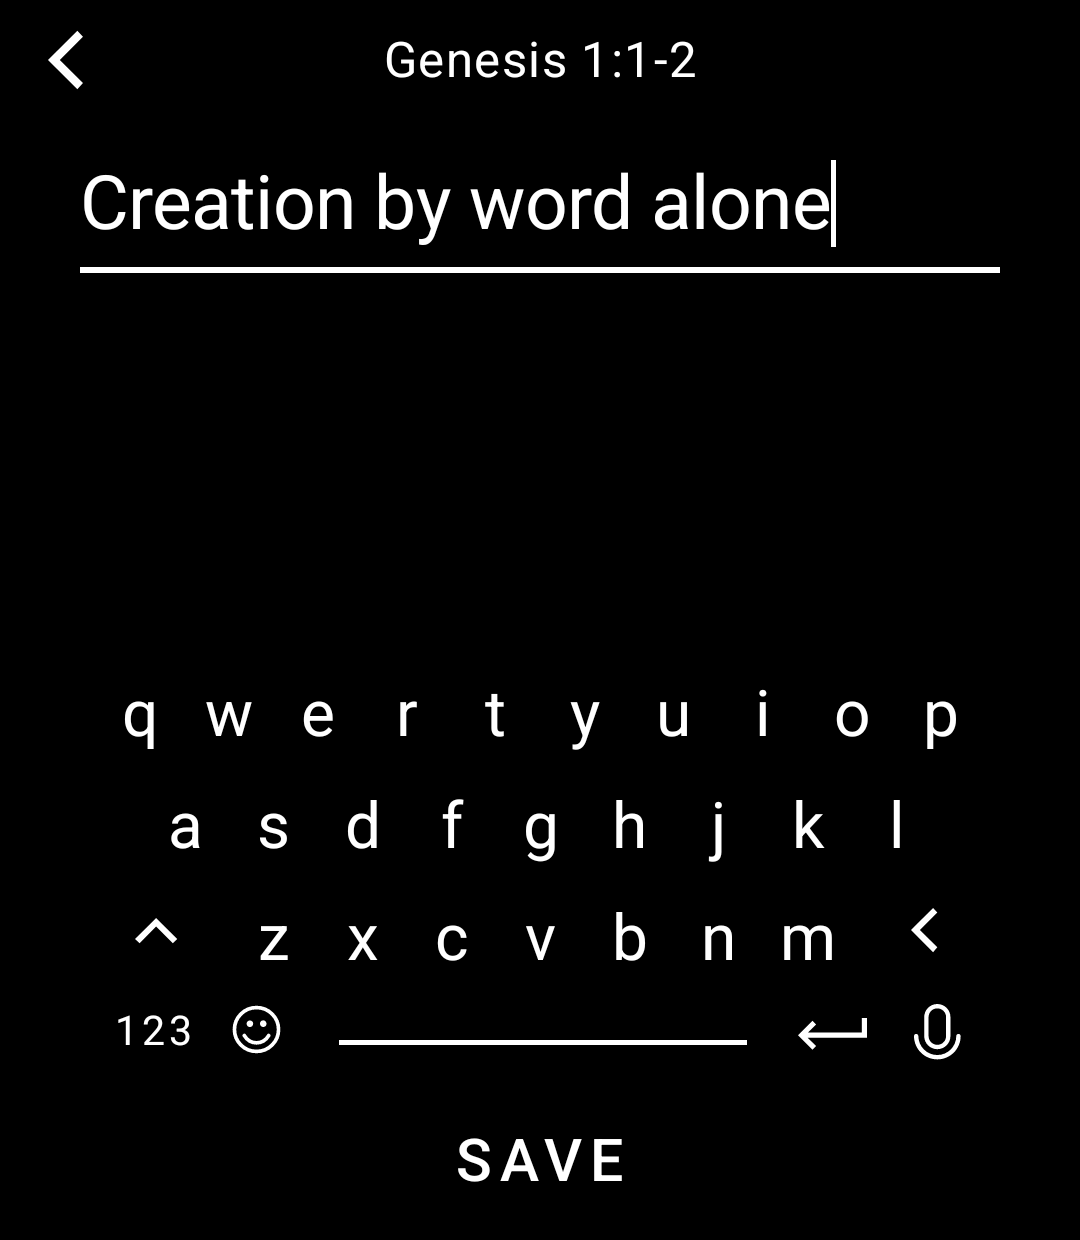
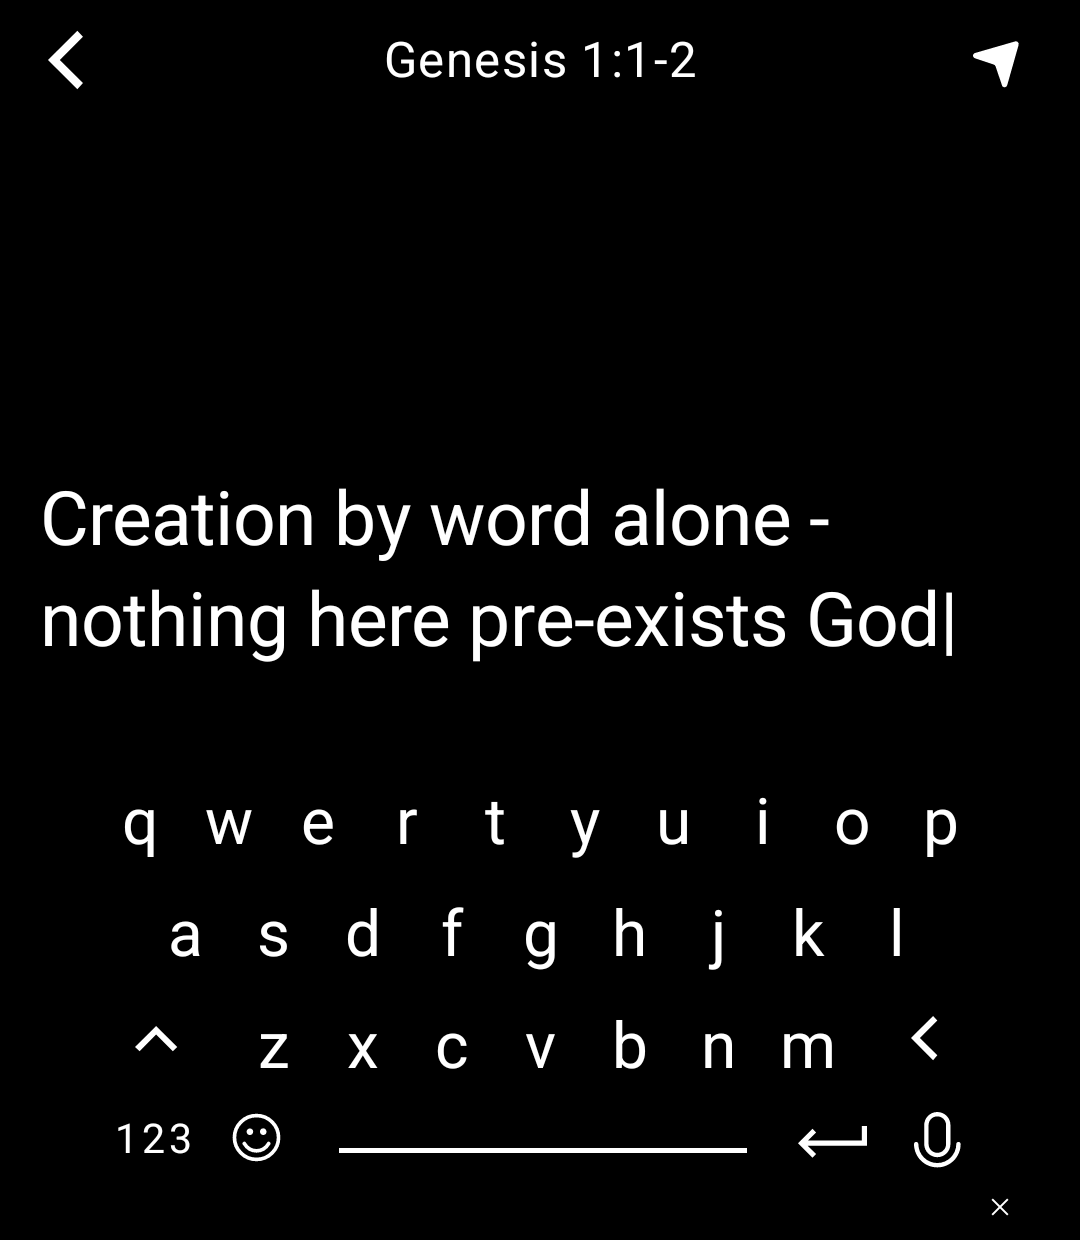
Write notes on a screen shaped like the messaging screen
The note editor was a single line, which is a poor place to write a sentence
about a passage. It is now laid out like the LightOS messaging screen, the
same way the GroupMe tool composes a message: the draft grows upward from
just above the keys, send confirms, and the close control sits under the
keyboard.

Settings takes API keys through this same screen, and a long key is easier to
check when it wraps instead of scrolling off one line.

The keyboard callback is copied rather than shared - the SDK keeps its own
implementation internal, so a tool cannot reach it.

LP2 has no LightOS keyboard to match, so its field gets a writing area
instead of collapsing to a single line's height.

diff --git a/tool/src/main/kotlin/com/outofthewhale/wordoflight/NoteEditScreen.kt b/tool/src/main/kotlin/com/outofthewhale/wordoflight/NoteEditScreen.kt
@@ -1,24 +1,64 @@
 package com.outofthewhale.wordoflight
 
 import androidx.compose.foundation.background
+import androidx.compose.foundation.layout.Arrangement
+import androidx.compose.foundation.layout.Box
+import androidx.compose.foundation.layout.Column
+import androidx.compose.foundation.layout.Row
+import androidx.compose.foundation.layout.fillMaxSize
+import androidx.compose.foundation.layout.fillMaxWidth
+import androidx.compose.foundation.layout.padding
+import androidx.compose.foundation.text.input.TextFieldState
+import androidx.compose.foundation.text.input.delete
 import androidx.compose.foundation.text.input.rememberTextFieldState
 import androidx.compose.runtime.Composable
 import androidx.compose.runtime.collectAsState
 import androidx.compose.runtime.getValue
+import androidx.compose.runtime.remember
+import androidx.compose.ui.Alignment
 import androidx.compose.ui.Modifier
+import androidx.compose.ui.text.TextRange
+import androidx.lifecycle.ViewModel
+import androidx.lifecycle.ViewModelProvider
+import androidx.lifecycle.viewmodel.compose.viewModel
+import com.thelightphone.lp3Keyboard.ui.KeyboardOptions
+import com.thelightphone.lp3Keyboard.ui.LayoutOptions
+import com.thelightphone.lp3Keyboard.ui.SpecialKey
+import com.thelightphone.lp3Keyboard.ui.viewmodel.EnQwertyLp3KeyboardViewModel
+import com.thelightphone.lp3Keyboard.ui.viewmodel.Lp3KeyboardViewModel
+import com.thelightphone.lp3Keyboard.ui.viewmodel.Lp3RepeatableKeyboardCallback
 import com.thelightphone.sdk.SealedLightActivity
 import com.thelightphone.sdk.SimpleLightScreen
 import com.thelightphone.sdk.rememberKeyboardOptions
-import com.thelightphone.sdk.ui.LightTextInputEditor
+import com.thelightphone.sdk.ui.LightBarButton
+import com.thelightphone.sdk.ui.LightIcon
+import com.thelightphone.sdk.ui.LightIcons
+import com.thelightphone.sdk.ui.LightText
+import com.thelightphone.sdk.ui.LightTextVariant
 import com.thelightphone.sdk.ui.LightTheme
 import com.thelightphone.sdk.ui.LightThemeController
 import com.thelightphone.sdk.ui.LightThemeTokens
+import com.thelightphone.sdk.ui.LightTopBar
+import com.thelightphone.sdk.ui.LightTopBarCenter
+import com.thelightphone.sdk.ui.gridUnitsAsDp
+import com.thelightphone.sdk.ui.keyboard.LightEmbeddedLp3Keyboard
+import com.thelightphone.sdk.ui.lightClickable
+import kotlinx.coroutines.flow.StateFlow
 
 /**
  * Write a note against a verse, a selection, or a whole chapter.
  *
+ * Laid out like the LightOS messaging screen rather than as a single-line
+ * field: the draft grows upward from just above the keys, so a note of more
+ * than a few words stays readable while it is being written.
+ *
+ * Also used by Settings to take an API key, which is the other place in the
+ * app where a long string is typed and wants to be seen in full.
+ *
  * Returns the text, or null when dismissed. Submitting an empty note is how a
- * note gets deleted - [Marks] drops a record once nothing is left on it.
+ * note gets deleted - [Marks] drops a record once nothing is left on it - so
+ * confirming always returns the draft, blank included, and only backing out
+ * returns null.
  */
 class NoteEditScreen(
     sealedActivity: SealedLightActivity,
@@ -28,21 +68,172 @@ class NoteEditScreen(
 
     @Composable
     override fun Content() {
-        val keyboardOptionsFlow = rememberKeyboardOptions()
-        val textState = rememberTextFieldState(initialValue)
         val themeColors by LightThemeController.colors.collectAsState()
+        val textState = rememberTextFieldState(initialValue)
+        val keyboardOptionsFlow = rememberKeyboardOptions()
+        val callback = remember(textState) { NoteKeyboardCallback(textState) }
+        val keyboardViewModel: Lp3KeyboardViewModel<*> =
+            viewModel<EnQwertyLp3KeyboardViewModel<Unit>>(
+                key = "NoteEditScreen-$title",
+                factory = noteKeyboardFactory(callback, keyboardOptionsFlow),
+            )
+
+        val draft = textState.text.toString()
 
         LightTheme(colors = themeColors) {
-            LightTextInputEditor(
-                title = title,
-                state = textState,
-                keyboardOptionsFlow = keyboardOptionsFlow,
-                onSubmit = { result -> goBack(result.toString()) },
-                onBack = { goBack(null) },
-                modifier = Modifier.background(LightThemeTokens.colors.background),
-                submitLabel = "SAVE",
-                initialCaps = true,
-            )
+            Column(
+                modifier = Modifier
+                    .fillMaxSize()
+                    .background(LightThemeTokens.colors.background)
+            ) {
+                LightTopBar(
+                    leftButton = LightBarButton.LightIcon(
+                        icon = LightIcons.BACK,
+                        onClick = { goBack(null) },
+                    ),
+                    center = LightTopBarCenter.Text(title),
+                    rightButton = LightBarButton.LightIcon(
+                        icon = LightIcons.SEND,
+                        onClick = { goBack(draft) },
+                    ),
+                )
+
+                // The draft grows upward from just above the keys, as it does
+                // in LightOS. A note longer than the space runs off the top
+                // rather than scrolling, which keeps what is being typed in
+                // view - the end of the note, not the start.
+                Box(
+                    modifier = Modifier
+                        .weight(1f)
+                        .fillMaxWidth()
+                        .padding(horizontal = 1f.gridUnitsAsDp()),
+                    contentAlignment = Alignment.BottomStart,
+                ) {
+                    LightText(
+                        text = draft + CURSOR,
+                        variant = LightTextVariant.Heading,
+                        modifier = Modifier
+                            .fillMaxWidth()
+                            .padding(bottom = 1f.gridUnitsAsDp()),
+                    )
+                }
+
+                LightEmbeddedLp3Keyboard(
+                    viewModel = keyboardViewModel,
+                    bottomBar = {
+                        Row(
+                            modifier = Modifier
+                                .fillMaxWidth()
+                                .padding(
+                                    horizontal = 1f.gridUnitsAsDp(),
+                                    vertical = 0.5f.gridUnitsAsDp(),
+                                ),
+                            horizontalArrangement = Arrangement.End,
+                        ) {
+                            LightIcon(
+                                icon = LightIcons.CLOSE,
+                                modifier = Modifier.lightClickable { goBack(null) },
+                            )
+                        }
+                    },
+                )
+            }
         }
     }
+}
+
+private const val CURSOR = "|"
+
+private fun noteKeyboardFactory(
+    callback: Lp3RepeatableKeyboardCallback,
+    keyboardOptionsFlow: StateFlow<KeyboardOptions>,
+): ViewModelProvider.Factory = object : ViewModelProvider.Factory {
+    @Suppress("UNCHECKED_CAST")
+    override fun <T : ViewModel> create(modelClass: Class<T>): T {
+        return EnQwertyLp3KeyboardViewModel<Unit>(
+            callback,
+            keyboardOptionsFlow = keyboardOptionsFlow,
+            optionsForLayout = { LayoutOptions(!it.isRootLayout) },
+        ) as T
+    }
+}
+
+/**
+ * Applies Light Phone keyboard events to a [TextFieldState]. Mirrors the SDK's
+ * own internal callback, which tools cannot reach.
+ */
+private class NoteKeyboardCallback(
+    private val state: TextFieldState,
+) : Lp3RepeatableKeyboardCallback {
+
+    override fun onKeyPressed(code: Int) = Unit
+
+    override fun onSpecialKeyPressed(key: SpecialKey) {
+        if (key == SpecialKey.Space) insertAtCursor(" ")
+    }
+
+    override fun onKeyReleased(code: Int) = insertCodePoint(code)
+
+    override fun onSpecialKeyReleased(key: SpecialKey) {
+        when (key) {
+            SpecialKey.Backspace -> {
+                val before = state.text.subSequence(0, state.selection.min)
+                deleteBeforeCursor(surrogateAwareDeleteCount(before))
+            }
+            SpecialKey.Return -> insertAtCursor("\n")
+            else -> Unit
+        }
+    }
+
+    override fun onKeyLongPressed(code: Int) = Unit
+
+    override fun onSpecialKeyLongPressed(key: SpecialKey) {
+        if (key == SpecialKey.Backspace) {
+            val before = state.text.subSequence(0, state.selection.min)
+            deleteBeforeCursor(deleteWordCount(before))
+        }
+    }
+
+    override fun onKeyRepeated(code: Int) = insertCodePoint(code)
+
+    override fun onSpecialKeyRepeated(specialKey: SpecialKey) {
+        if (specialKey == SpecialKey.Space) insertAtCursor(" ")
+    }
+
+    override fun onSubmitWord(word: CharSequence) = insertAtCursor(word.toString())
+
+    private fun insertCodePoint(code: Int) {
+        insertAtCursor(buildString { appendCodePoint(code) })
+    }
+
+    private fun insertAtCursor(text: String) {
+        state.edit {
+            val start = selection.min
+            val end = selection.max
+            replace(start, end, text)
+            selection = TextRange(start + text.length)
+        }
+    }
+
+    private fun deleteBeforeCursor(count: Int) {
+        if (count <= 0) return
+        state.edit {
+            val end = selection.min
+            if (end == 0) return@edit
+            val start = (end - count).coerceAtLeast(0)
+            delete(start, end)
+            selection = TextRange(start)
+        }
+    }
+}
+
+private fun surrogateAwareDeleteCount(value: CharSequence): Int {
+    if (value.isEmpty()) return 0
+    return if (Character.isLowSurrogate(value[value.length - 1])) 2 else 1
+}
+
+private fun deleteWordCount(value: CharSequence): Int {
+    val trimmed = value.trimEnd()
+    val lastSpace = trimmed.indexOfLast { it.isWhitespace() }
+    return value.length - if (lastSpace >= 0) lastSpace + 1 else 0
 }

diff --git a/lp2/app/src/main/kotlin/com/outofthewhale/wordoflight/lp2/Menus.kt b/lp2/app/src/main/kotlin/com/outofthewhale/wordoflight/lp2/Menus.kt
@@ -8,6 +8,7 @@ import androidx.compose.foundation.layout.Row
 import androidx.compose.foundation.layout.fillMaxSize
 import androidx.compose.foundation.layout.fillMaxWidth
 import androidx.compose.foundation.layout.height
+import androidx.compose.foundation.layout.heightIn
 import androidx.compose.foundation.layout.padding
 import androidx.compose.foundation.rememberScrollState
 import androidx.compose.foundation.text.BasicText
@@ -354,12 +355,18 @@ internal fun NoteEditor(
     var text by remember { mutableStateOf(initial) }
 
     Page(title = title, onBack = onBack) {
+        // A writing area rather than a line: the LP3 build lays this out like
+        // the LightOS messaging screen, and a note of more than a few words
+        // needs to stay readable while it is being written.
         BasicTextField(
             value = text,
             onValueChange = { text = it },
             textStyle = type.paragraph.copy(color = palette.content),
             cursorBrush = SolidColor(palette.content),
-            modifier = Modifier.fillMaxWidth().padding(vertical = 8.dp),
+            modifier = Modifier
+                .fillMaxWidth()
+                .heightIn(min = 220.dp)
+                .padding(vertical = 8.dp),
         )
         Box(
             modifier = Modifier

diff --git a/README.md b/README.md
@@ -18,7 +18,7 @@ works with the radio off. No account, no key, no network.
 
 | Books | Writing a note | Settings |
 |---|---|---|
-| ![The book picker, Old Testament first](docs/screenshots/books.png) | ![The note editor, headed with the verse range it will be saved against](docs/screenshots/note.png) | ![Settings, showing which publishers have a key saved](docs/screenshots/settings.png) |
+| ![The book picker, Old Testament first](docs/screenshots/books.png) | ![The note editor, laid out like the LightOS messaging screen, headed with the verse range it will be saved against](docs/screenshots/note.png) | ![Settings, showing which publishers have a key saved](docs/screenshots/settings.png) |
 
 ---
 
